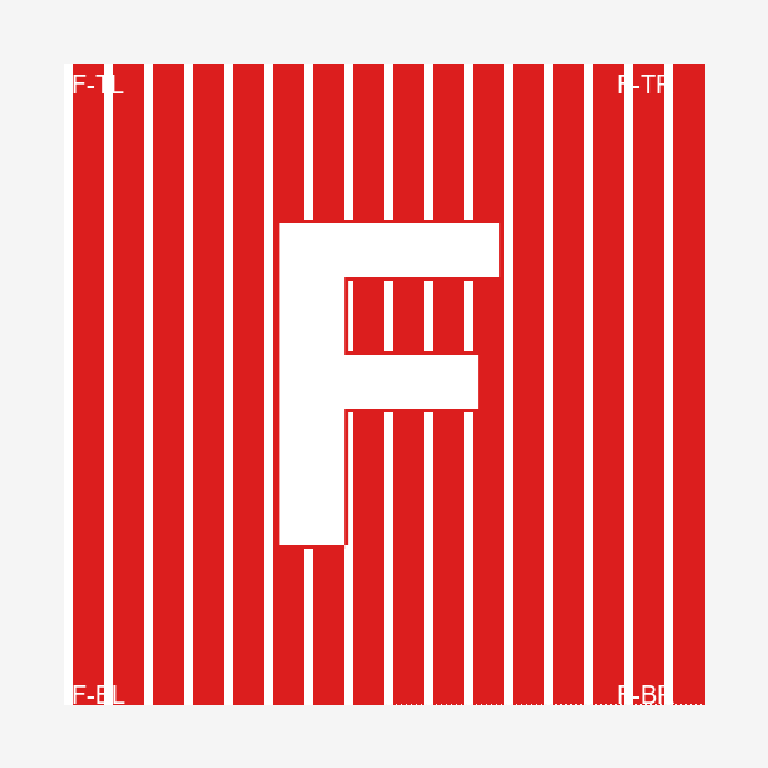
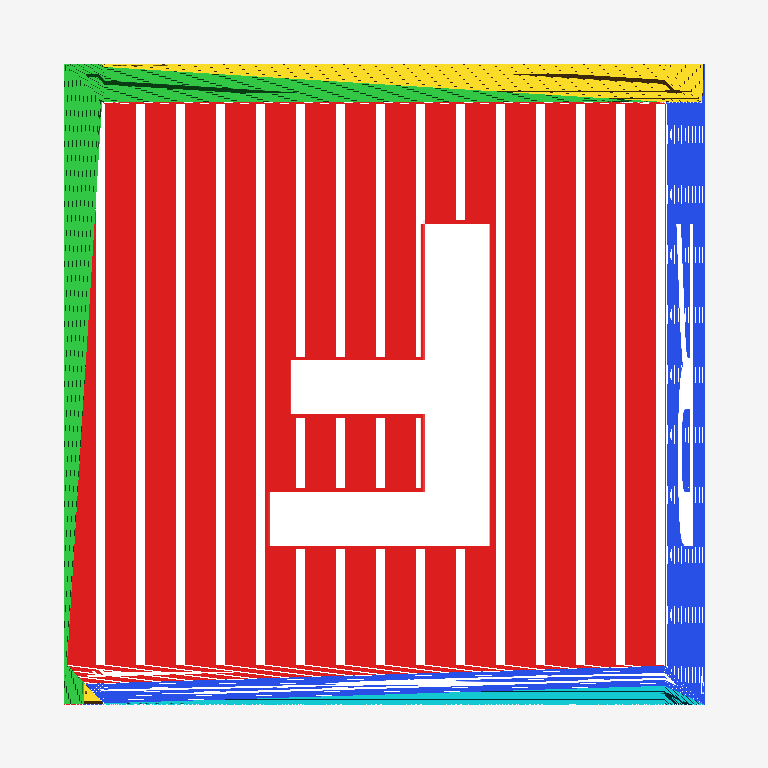
calibration: subdivided cube (3072 faces) + texture_project sign env flags
- cube mesh is subdivided 4 levels so UV edges stay well under the
  20%-atlas threshold that texture_project.py uses to reject degenerate
  SF3D faces. Without this the whole cube got rejected at rasterize.
- _rebuild_cube_uvs() projects each sub-vertex onto the cube face it
  belongs to and emits an atlas UV pointing at the right 3×2 cell.
- texture_project.py reads 3 env flags
  (FABMESH_TEXPROJ_FLIP_AZIM/ELEV/CAMPOS_AZIM) to let an empirical
  sweep over the 8 sign combinations discover which matches Zero123++.

First sweep result on synthetic multi-views: best variant = 1/6 correct
(F front only). The 6 synthetic multi-views I render don't match what
Zero123++ produces, so this sweep can't be used to pick a convention
on its own. Next step: drive the sweep from a REAL FabMesh gen that
fed the pipeline actual Zero123++ output.

diff --git a/scripts/_build_calibration_suite.py b/scripts/_build_calibration_suite.py
@@ -165,6 +165,60 @@ def build_cube_atlas(face_size: int = 512) -> Image.Image:
 # Cube mesh with UVs that sample the atlas correctly
 # ---------------------------------------------------------------------
 
+def _rebuild_cube_uvs(mesh: trimesh.Trimesh, s: float):
+    """
+    After subdivision, re-compute per-vertex UVs by projecting each vertex
+    onto the cube face whose normal best matches its local outward direction.
+    This gives clean UVs that sample the correct atlas cell for every
+    sub-triangle.
+
+    Atlas layout (3×2 cells, 0..1 UV range):
+      row 0 (v>=0.5): front(col0) | right(col1) | back(col2)
+      row 1 (v<0.5):  left(col0)  | top(col1)   | bottom(col2)
+    """
+    verts = mesh.vertices
+    uvs = np.zeros((len(verts), 2), dtype=np.float32)
+    # For each vertex, pick the dominant cube-face axis (largest |coord|)
+    ax = np.abs(verts).argmax(axis=1)  # 0=x,1=y,2=z
+    for i, v in enumerate(verts):
+        x, y, z = v
+        which = ax[i]
+        # Local 2D coords on the face (u,v ∈ [-s, +s]) then normalize to [0,1]
+        if which == 2:
+            if z < 0:  # front face, -Z, cell (0,0)
+                col, row = 0, 0
+                fu = (x + s) / (2 * s)
+                fv = (y + s) / (2 * s)
+            else:  # back face, +Z, cell (2,0)
+                col, row = 2, 0
+                fu = (-x + s) / (2 * s)
+                fv = (y + s) / (2 * s)
+        elif which == 0:
+            if x > 0:  # right face, +X, cell (1,0)
+                col, row = 1, 0
+                fu = (-z + s) / (2 * s)
+                fv = (y + s) / (2 * s)
+            else:  # left face, -X, cell (0,1)
+                col, row = 0, 1
+                fu = (z + s) / (2 * s)
+                fv = (y + s) / (2 * s)
+        else:  # which == 1
+            if y > 0:  # top face, +Y, cell (1,1)
+                col, row = 1, 1
+                fu = (x + s) / (2 * s)
+                fv = (-z + s) / (2 * s)
+            else:  # bottom face, -Y, cell (2,1)
+                col, row = 2, 1
+                fu = (x + s) / (2 * s)
+                fv = (z + s) / (2 * s)
+        # Map to atlas UV: u = (col + fu) / 3 ; v_top = (row + fv) / 2
+        # But glTF V is flipped, so v_final = 1 - (row + fv) / 2
+        u = (col + fu) / 3.0
+        v = 1.0 - (row + fv) / 2.0
+        uvs[i] = (u, v)
+    return uvs
+
+
 def build_cube_mesh(side: float = 0.8) -> trimesh.Trimesh:
     """
     A 1×1×1-ish cube centered on origin with per-face UVs pointing at
@@ -230,6 +284,25 @@ def build_cube_mesh(side: float = 0.8) -> trimesh.Trimesh:
     faces_tri = np.array(faces_tri, dtype=np.int64)
 
     mesh = trimesh.Trimesh(vertices=verts, faces=faces_tri, process=False)
+
+    # Subdivide so each face becomes many small triangles. This matters for
+    # texture_project.py which rejects faces whose UV edge > 20% of the
+    # atlas (a sanity filter against broken SF3D meshes). A 6-face cube
+    # fails 100% of that filter. After 4 levels of subdivision we get
+    # 12 * 4^4 = 3072 small triangles, each with UV edges < 10%.
+    try:
+        from trimesh.remesh import subdivide as _subdiv
+        _sub_v, _sub_f = verts, faces_tri
+        for _ in range(4):
+            _sub_v, _sub_f = _subdiv(_sub_v, _sub_f)
+        mesh = trimesh.Trimesh(vertices=_sub_v, faces=_sub_f, process=False)
+        # Regenerate UVs via cube-face projection so every sub-vertex
+        # samples the right atlas cell.
+        new_uvs = _rebuild_cube_uvs(mesh, s=side / 2)
+        uvs = new_uvs
+    except Exception as _e:
+        print(f'[calib] subdivide skipped ({_e}); keeping 12-face cube')
+
     # Use trimesh's TextureVisuals with a PBR material carrying the atlas.
     atlas = build_cube_atlas(512)
     material = trimesh.visual.material.PBRMaterial(

diff --git a/scripts/texture_project.py b/scripts/texture_project.py
@@ -487,8 +487,19 @@ def project_texture(mesh_path, source_image_path, output_path, tex_res=1024,
         # Full orbit: azimuth around Y + elevation around X (Zero123++
         # alternates +20 / -10 elevation per view — projecting these
         # as pure azimuth produced the mosaic atlas bug).
-        R_w2c_v = R_w2c_base @ rot_x(elev_deg) @ rot_y(-azim_deg)
-        cam_pos_w = (rot_y(azim_deg) @ rot_x(-elev_deg) @
+        # Sign conventions tunable via env for the calibration sweep:
+        #   FABMESH_TEXPROJ_FLIP_AZIM=True  -> rot_y(+azim) instead of rot_y(-azim)
+        #   FABMESH_TEXPROJ_FLIP_ELEV=True  -> rot_x(-elev) instead of rot_x(+elev)
+        #   FABMESH_TEXPROJ_FLIP_CAMPOS_AZIM=True -> rot_y(-azim) instead of rot_y(+azim)
+        _fa = os.environ.get('FABMESH_TEXPROJ_FLIP_AZIM', 'False') == 'True'
+        _fe = os.environ.get('FABMESH_TEXPROJ_FLIP_ELEV', 'False') == 'True'
+        _fc = os.environ.get('FABMESH_TEXPROJ_FLIP_CAMPOS_AZIM', 'False') == 'True'
+        _az_w2c = azim_deg if _fa else -azim_deg
+        _el_w2c = -elev_deg if _fe else elev_deg
+        _az_cam = -azim_deg if _fc else azim_deg
+        _el_cam = elev_deg if _fe else -elev_deg  # keep inverse of _el_w2c
+        R_w2c_v = R_w2c_base @ rot_x(_el_w2c) @ rot_y(_az_w2c)
+        cam_pos_w = (rot_y(_az_cam) @ rot_x(_el_cam) @
                      np.array([distance, 0.0, 0.0]))
         t_w2c_v = -R_w2c_v @ cam_pos_w
 
